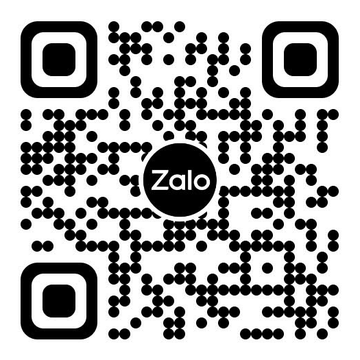
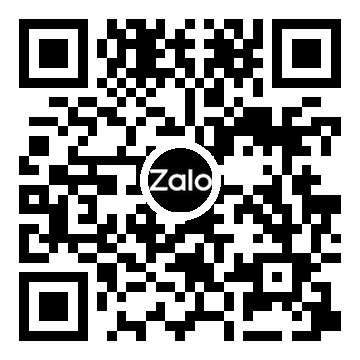
Open Zalo app directly: use zalo.me link and regenerate QR
zaloapp.com/qr/p/... is a blank JS redirect page that browsers often block,
leaving a white page. zalo.me is a registered Universal/App Link for Zalo,
so tapping or scanning opens the app directly.

diff --git a/index.html b/index.html
@@ -63,7 +63,7 @@
           <ul class="socials">
             <li><a href="https://github.com/NguyenVanAn-200704" target="_blank" rel="noopener" aria-label="GitHub"><svg width="18" height="18" aria-hidden="true"><use href="#i-github"/></svg></a></li>
             <li><a href="https://www.facebook.com/nguyen.van.an.20072004" target="_blank" rel="noopener" aria-label="Facebook"><svg width="18" height="18" aria-hidden="true"><use href="#i-facebook"/></svg></a></li>
-            <li><a href="https://zaloapp.com/qr/p/1jbuj3h8x3kev" target="_blank" rel="noopener" aria-label="Zalo"><svg width="18" height="18" aria-hidden="true"><use href="#i-zalo"/></svg></a></li>
+            <li><a href="https://zalo.me/0977788210" target="_blank" rel="noopener" aria-label="Zalo"><svg width="18" height="18" aria-hidden="true"><use href="#i-zalo"/></svg></a></li>
             <li><a href="https://www.instagram.com/nva2004_gl81/" target="_blank" rel="noopener" aria-label="Instagram"><svg width="18" height="18" aria-hidden="true"><use href="#i-instagram"/></svg></a></li>
             <li><a href="mailto:nva2004gl81@gmail.com" aria-label="Email"><svg width="18" height="18" aria-hidden="true"><use href="#i-mail"/></svg></a></li>
           </ul>
@@ -359,7 +359,7 @@
               <button type="button" class="contact-card__copy mono" data-copy="nva2004gl81@gmail.com" data-i18n="contact.copy">Sao chép</button>
             </li>
             <li class="contact-card">
-              <a class="contact-card__link" href="https://zaloapp.com/qr/p/1jbuj3h8x3kev" target="_blank" rel="noopener">
+              <a class="contact-card__link" href="https://zalo.me/0977788210" target="_blank" rel="noopener">
                 <span class="contact-card__icon"><svg width="18" height="18" aria-hidden="true"><use href="#i-zalo"/></svg></span>
                 <span class="contact-card__text"><span class="mono">Zalo</span><strong>Nguyễn Văn An</strong></span>
                 <span class="contact-card__arrow" aria-hidden="true">↗</span>
@@ -390,11 +390,11 @@
           </div>
 
           <aside class="contact-qr">
-            <a class="contact-qr__img" href="https://zaloapp.com/qr/p/1jbuj3h8x3kev" target="_blank" rel="noopener" aria-label="Zalo QR">
+            <a class="contact-qr__img" href="https://zalo.me/0977788210" target="_blank" rel="noopener" aria-label="Zalo QR">
               <img src="assets/zalo-qr.png" alt="QR Zalo Nguyễn Văn An" width="180" height="180" loading="lazy">
             </a>
             <p class="contact-qr__title" data-i18n="contact.qrTitle">Quét để kết bạn Zalo</p>
-            <a class="btn btn--ghost" href="https://zaloapp.com/qr/p/1jbuj3h8x3kev" target="_blank" rel="noopener"><svg width="16" height="16" aria-hidden="true"><use href="#i-zalo"/></svg><span data-i18n="contact.openZalo">Mở Zalo</span></a>
+            <a class="btn btn--ghost" href="https://zalo.me/0977788210" target="_blank" rel="noopener"><svg width="16" height="16" aria-hidden="true"><use href="#i-zalo"/></svg><span data-i18n="contact.openZalo">Mở Zalo</span></a>
           </aside>
         </div>
       </div>
@@ -415,7 +415,7 @@
       <ul class="socials socials--sm">
         <li><a href="https://github.com/NguyenVanAn-200704" target="_blank" rel="noopener" aria-label="GitHub"><svg width="15" height="15" aria-hidden="true"><use href="#i-github"/></svg></a></li>
         <li><a href="https://www.facebook.com/nguyen.van.an.20072004" target="_blank" rel="noopener" aria-label="Facebook"><svg width="15" height="15" aria-hidden="true"><use href="#i-facebook"/></svg></a></li>
-        <li><a href="https://zaloapp.com/qr/p/1jbuj3h8x3kev" target="_blank" rel="noopener" aria-label="Zalo"><svg width="15" height="15" aria-hidden="true"><use href="#i-zalo"/></svg></a></li>
+        <li><a href="https://zalo.me/0977788210" target="_blank" rel="noopener" aria-label="Zalo"><svg width="15" height="15" aria-hidden="true"><use href="#i-zalo"/></svg></a></li>
         <li><a href="https://www.instagram.com/nva2004_gl81/" target="_blank" rel="noopener" aria-label="Instagram"><svg width="15" height="15" aria-hidden="true"><use href="#i-instagram"/></svg></a></li>
       </ul>
     </div>
